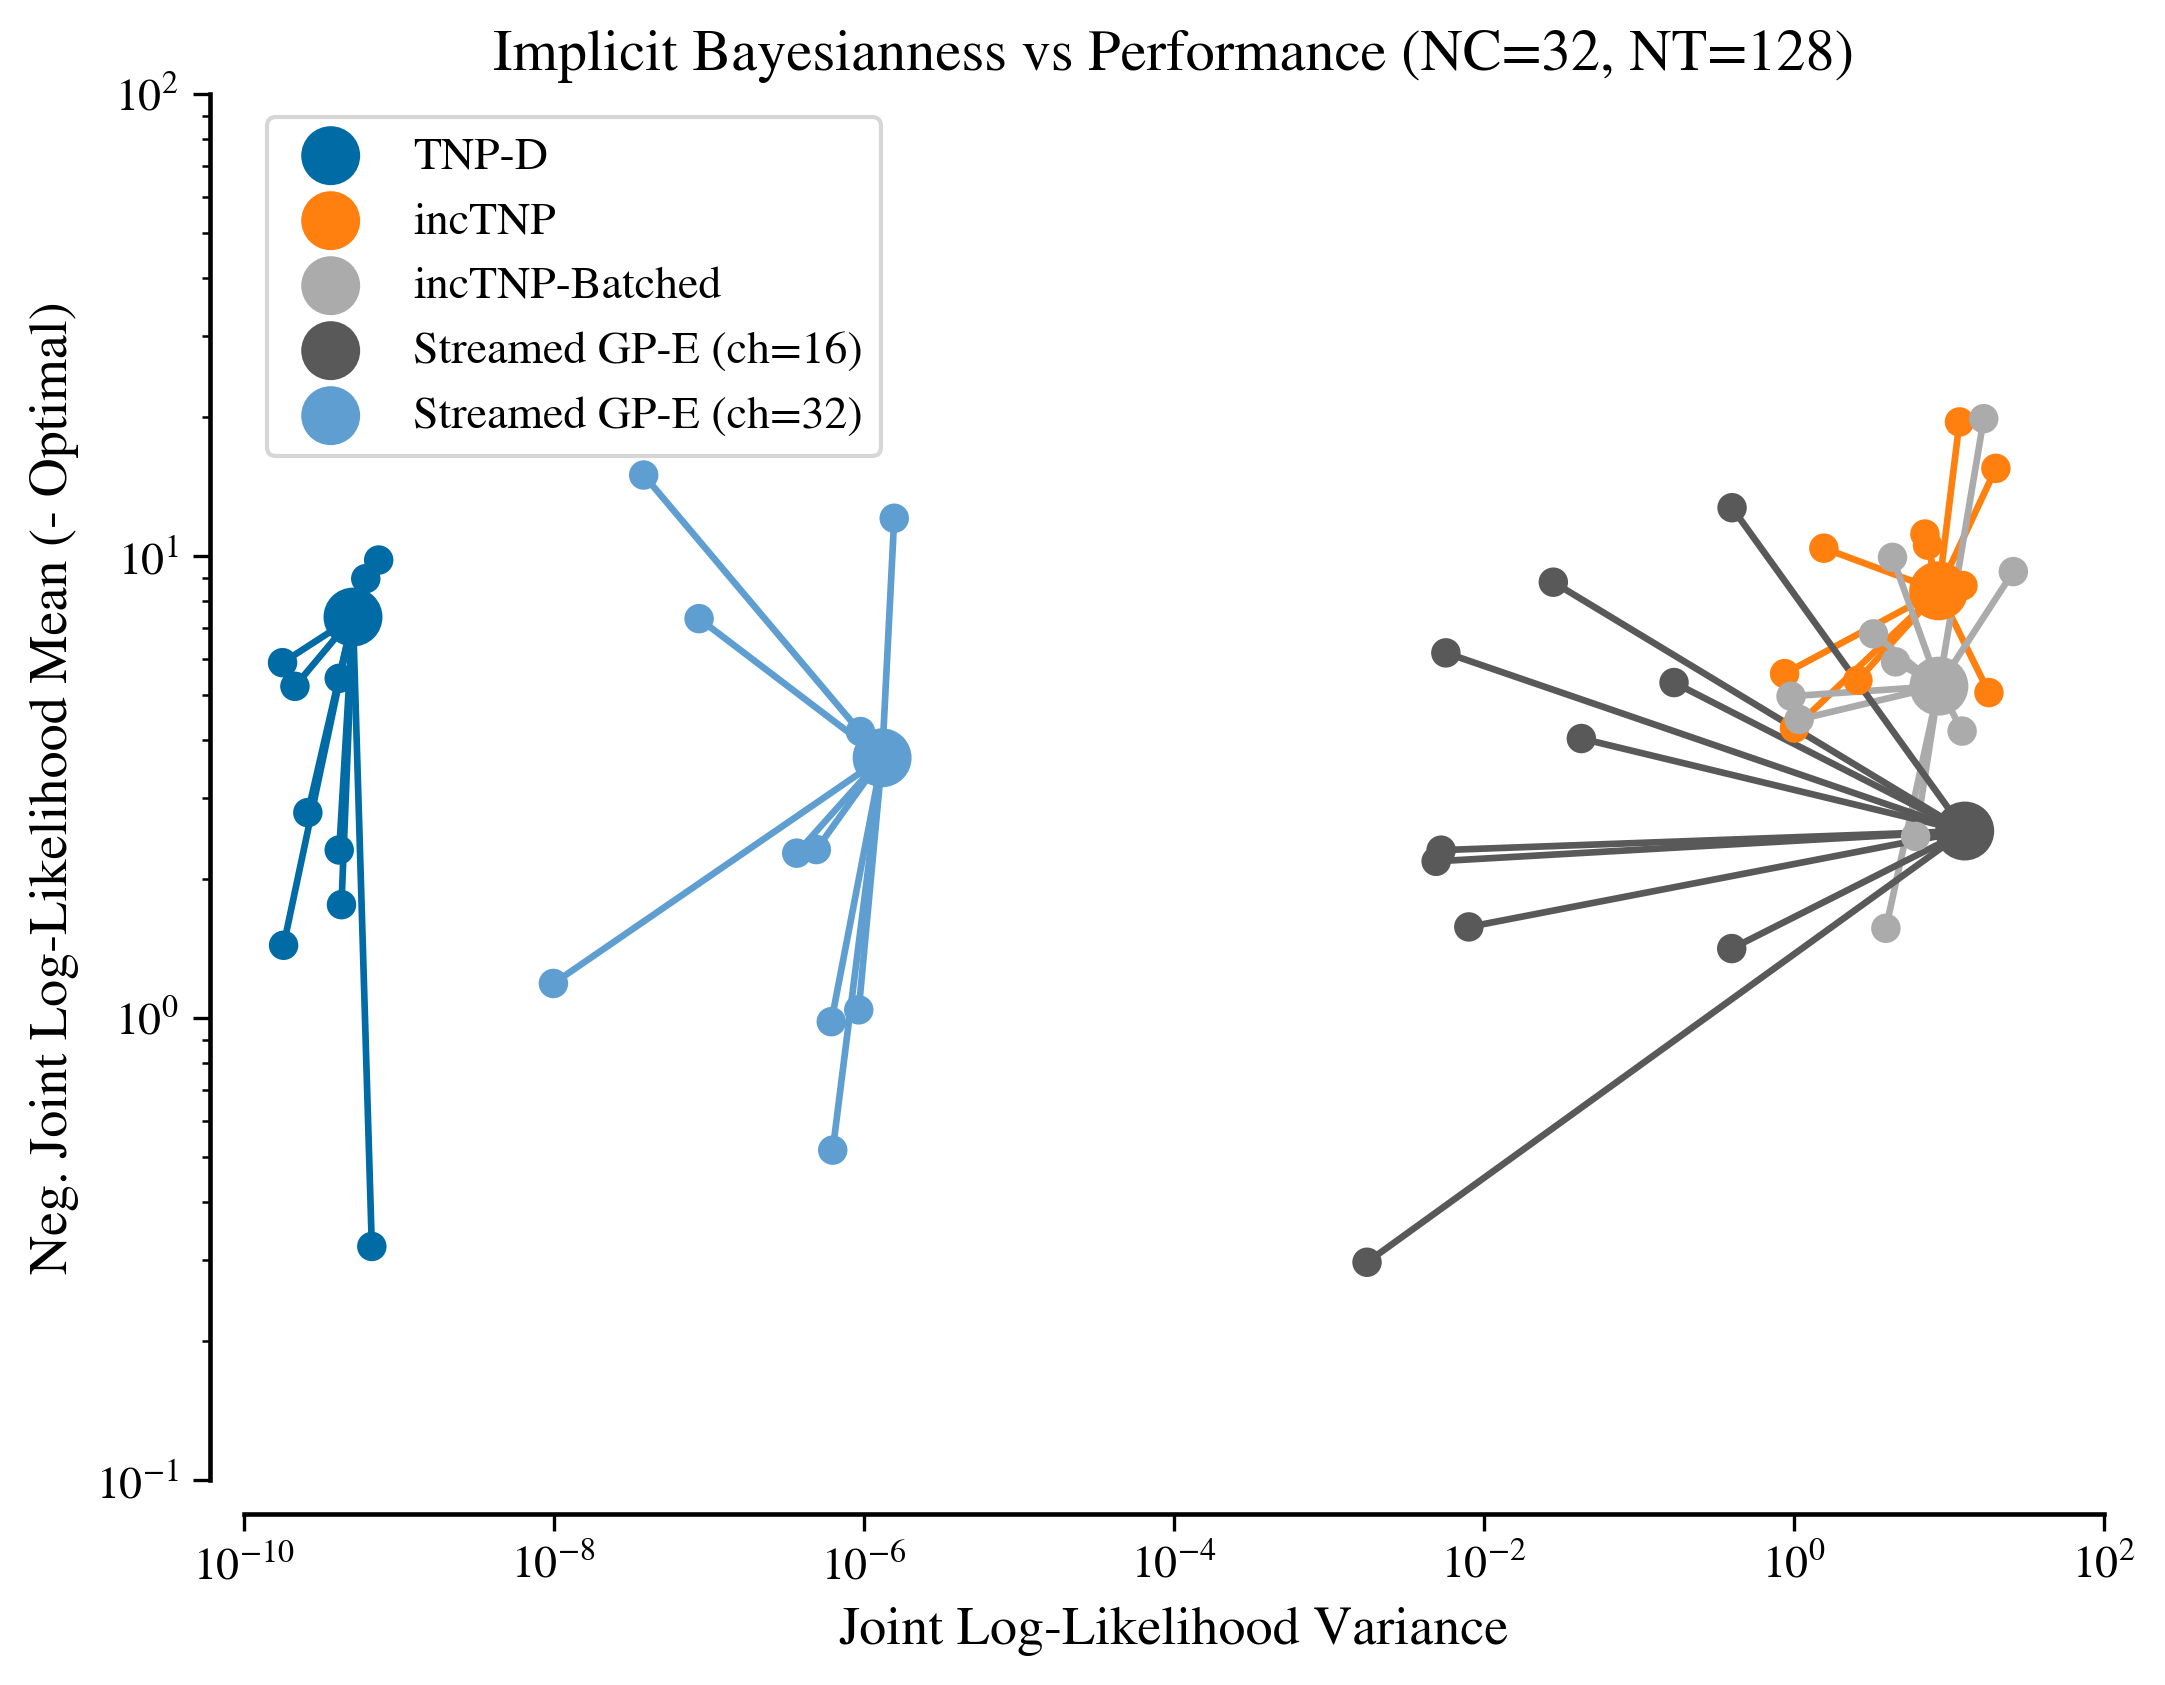
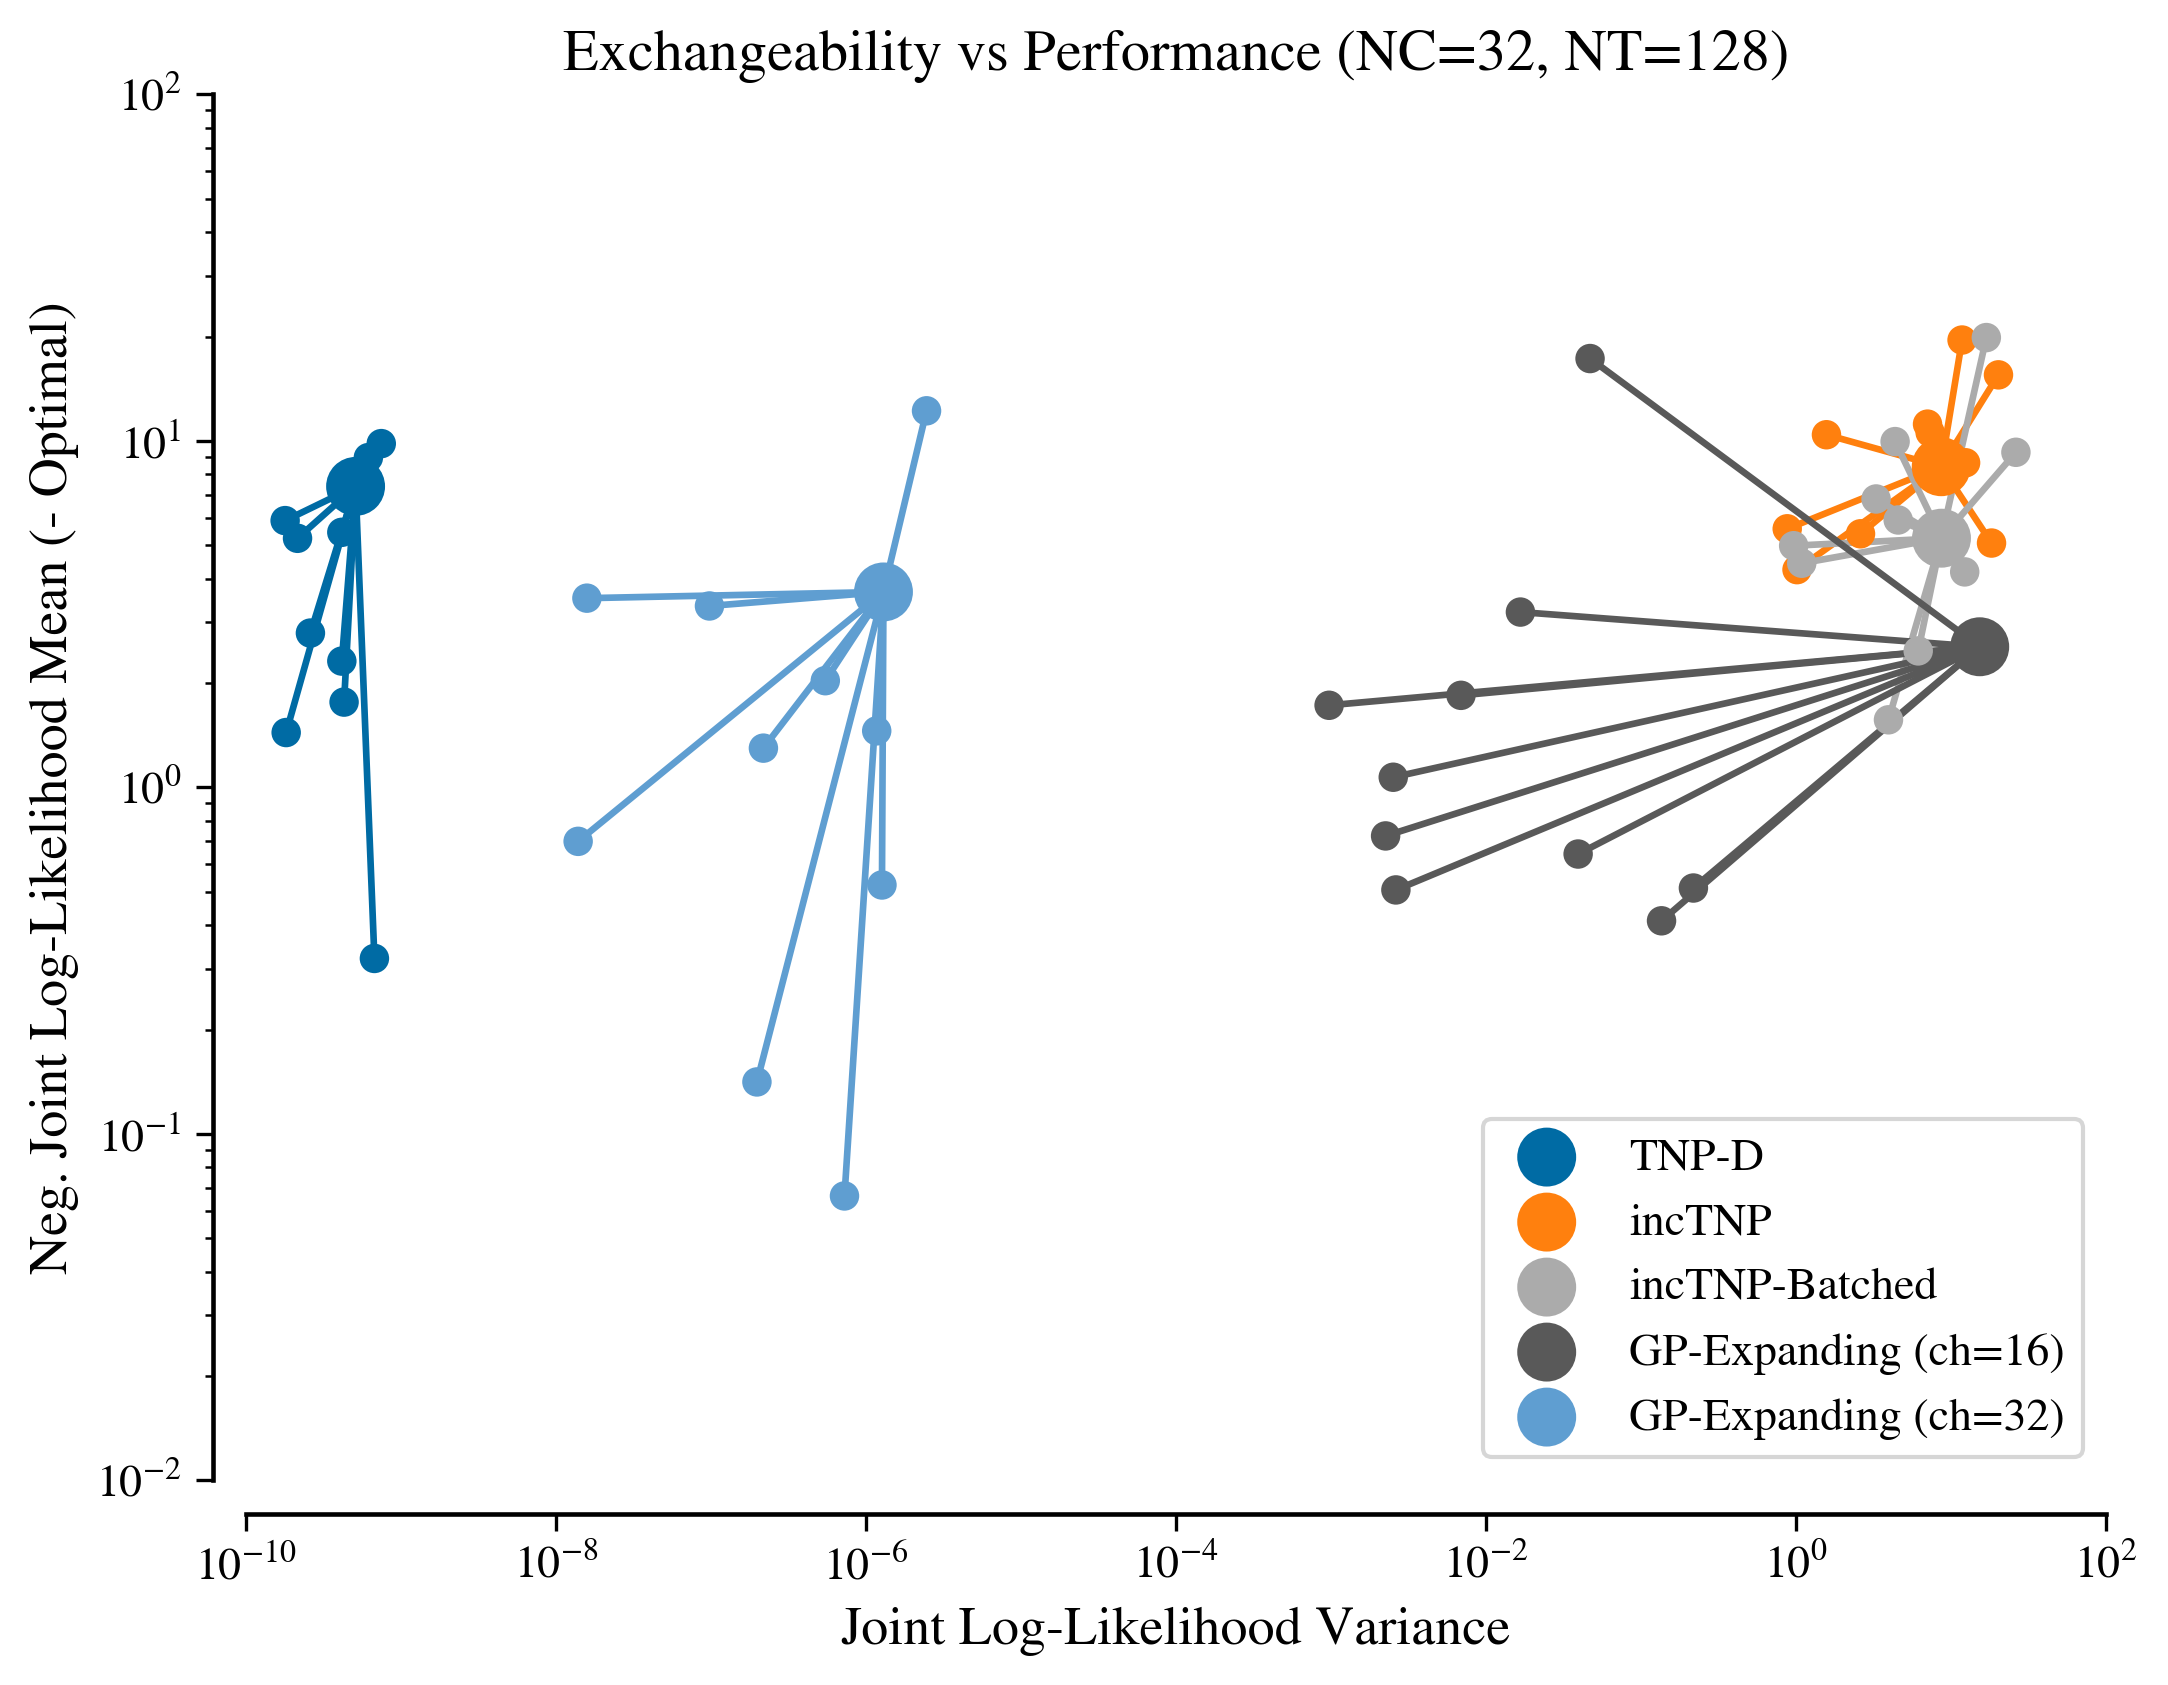
ex plot

diff --git a/experiments/exchangeability.py b/experiments/exchangeability.py
@@ -358,7 +358,7 @@ def plot_models_setup_rbf_same():
     tnp_ar_20 = [tnp_ar_cptk, tnp_ar_yml, tnp_name, 20]
     models_ar = [tnp_ar_10, tnp_ar_20]
 
-    gp_name = "Streamed GP"
+    gp_name = "GP-Expanding"
     gp_streamed_expanding_1 = ["", "", gp_name, 1, "Expanding"]
     gp_streamed_expanding_2 = ["", "", gp_name, 2, "Expanding"]
     gp_streamed_expanding_4 = ["", "", gp_name, 4, "Expanding"]
@@ -429,7 +429,7 @@ def plot_from_folder(folder):
     model_folders_unstr = [p for p in data_directory.iterdir() if p.is_dir()]
     # Imposes plot ordering
     remaining_folders = set(model_folders_unstr)
-    order = ["TNP-D", "incTNP", "incTNP-Batched", "TNP-A", "Streamed GP-E"]
+    order = ["TNP-D", "incTNP", "incTNP-Batched", "TNP-A", "GP-Expanding"]
     model_folders = []
     for prefix in order:
         matches = [p for p in remaining_folders if p.name.startswith(prefix)]
@@ -530,7 +530,7 @@ def plot_from_folder(folder):
 
     ax.legend()
 
-    ax.set_title(f"Implicit Bayesianness vs Performance (NC={nc}, NT={nt})")
+    ax.set_title(f"Exchangeability vs Performance (NC={nc}, NT={nt})")
 
     plt.savefig(folder + "/brunofig.png", bbox_inches="tight")
 
@@ -544,7 +544,7 @@ def gather_stats_models(helper_tuple, base_folder_name):
     use_autoreg_eq=False
     max_samples=samples_per_epoch
     return_samples=max_samples # essentially return as many as possible (but one per batch)
-    skip_existing_folders = False # Skips existing file writes - no need to do work again
+    skip_existing_folders = True # Skips existing file writes - no need to do work again
     # End of hypers
 
     (models) = helper_tuple
@@ -560,9 +560,9 @@ def gather_stats_models(helper_tuple, base_folder_name):
     for mod_data in models:
         mod_cptk, mod_yml, model_name = mod_data[0], mod_data[1], mod_data[2]
         # Formats model names
-        if model_name == "Streamed GP":
+        if model_name == "GP-Expanding":
             _, _, name_base, chunk_size, strat = mod_data
-            gp_ext = "-E" if strat == "Expanding" else "-S"
+            gp_ext = "" if strat == "Expanding" else ""
             model_name_fmt = model_name + gp_ext+ f' (ch={chunk_size})'
         elif model_name == "TNP-A":
             model_name_fmt = model_name + f' ({mod_data[3]} samples)'
@@ -578,7 +578,7 @@ def gather_stats_models(helper_tuple, base_folder_name):
 
         use_torch_grad = False
         # Handles GP case seperately
-        if model_name == "Streamed GP":
+        if model_name == "GP-Expanding":
             _, _, name_base, chunk_size, strat = mod_data
             model = GPStreamRBF(chunk_size=chunk_size, train_strat=strat)
             use_torch_grad = True # Need gradient to train the GP model
